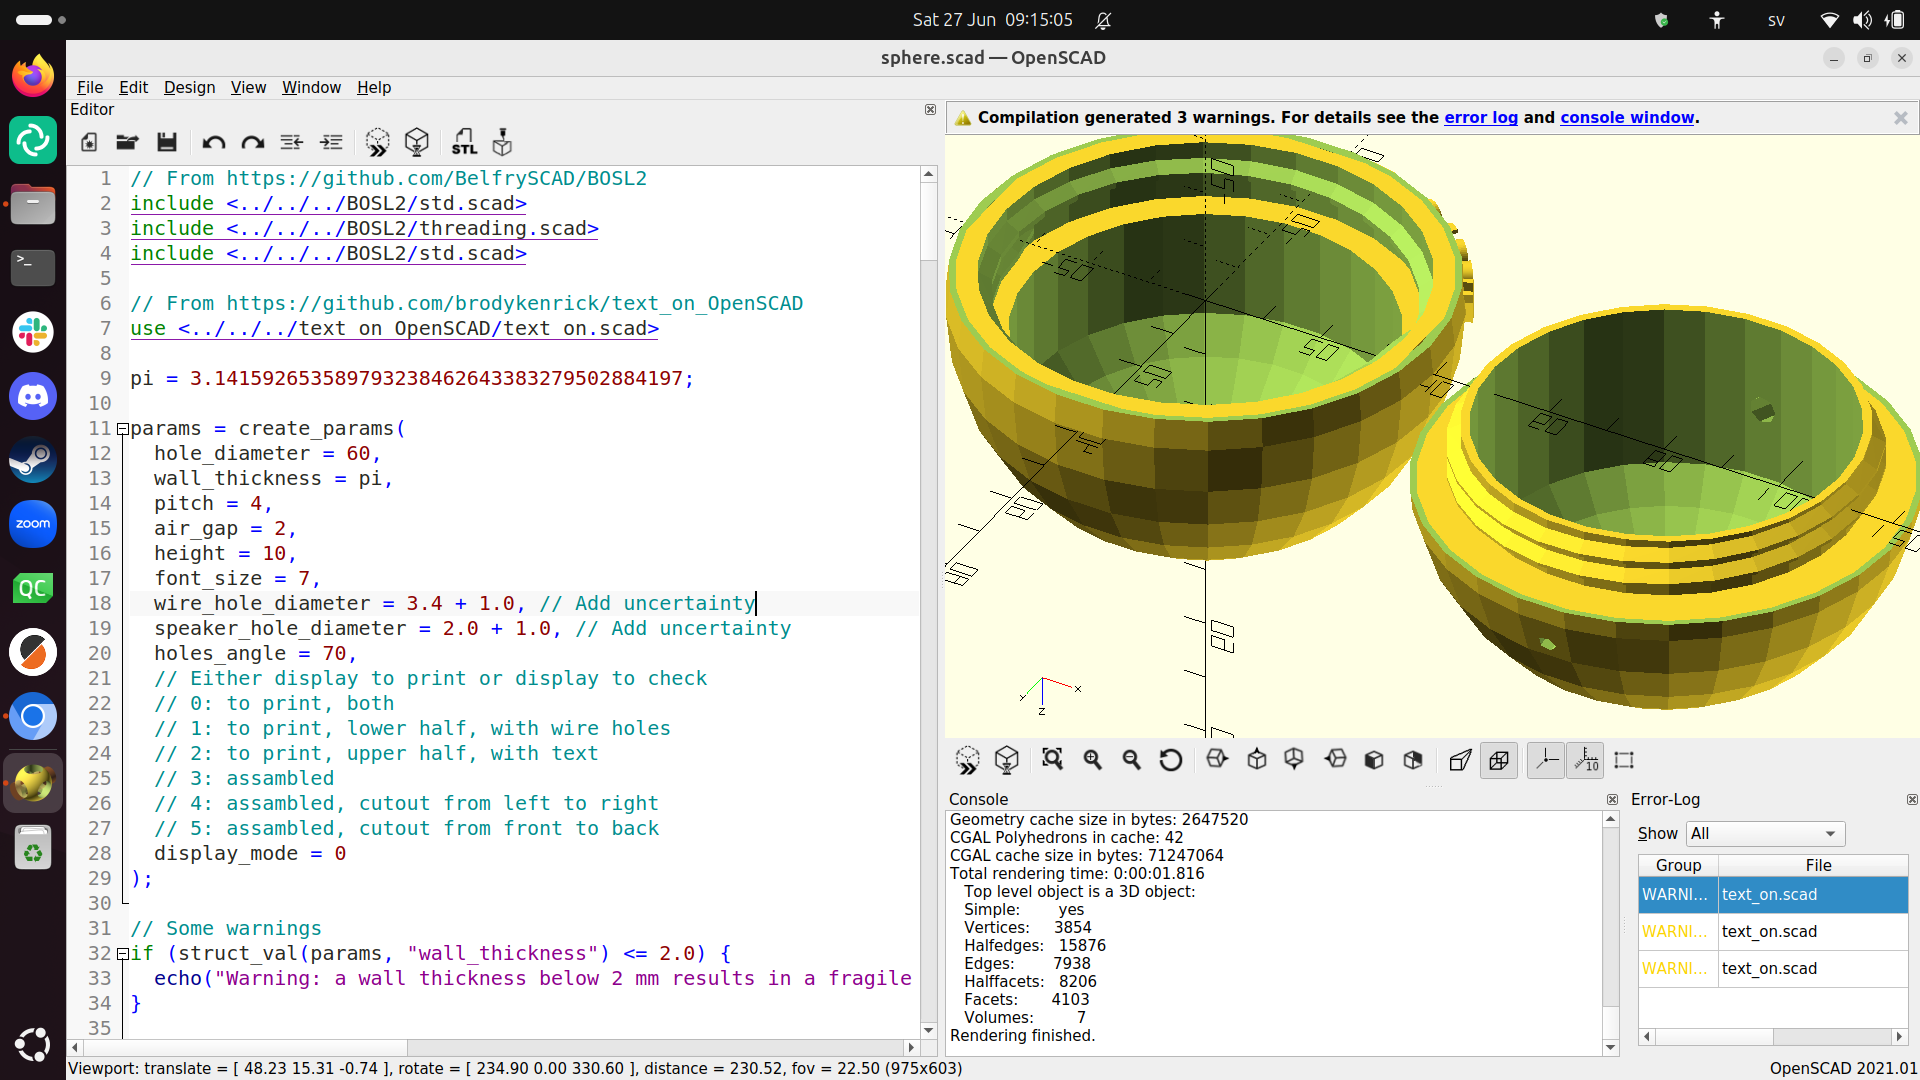
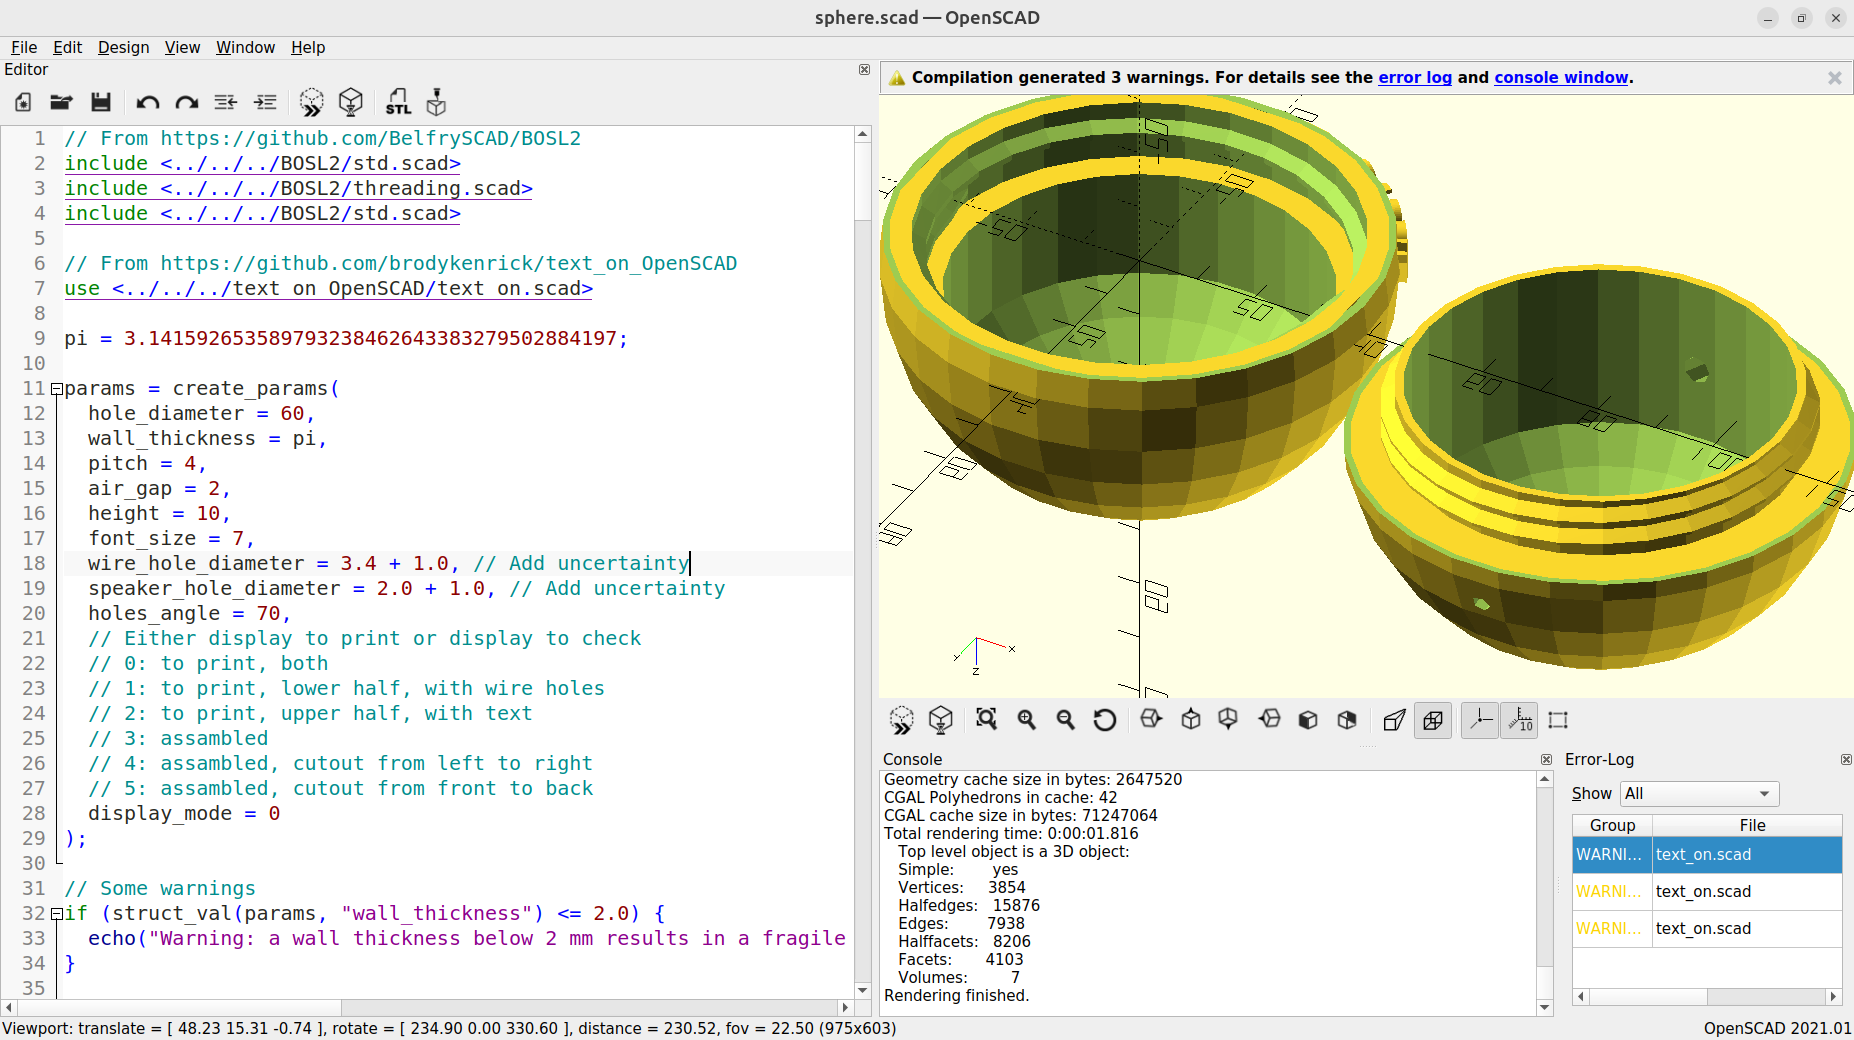
Add advanced hour

diff --git a/docs/kurserna/README.md b/docs/kurserna/README.md
@@ -28,14 +28,15 @@
 
     Här är ett översikt av när vilken kurs är:
 
-    Course     |9:00-10:00                               |10:15-11:00                                               |11:15-12:00                                               |12:15-13:00                                     |13:15-14:00                                     |14:15-15:00
-    -----------|-----------------------------------------|----------------------------------------------------------|----------------------------------------------------------|------------------------------------------------|------------------------------------------------|-------------------------------------------
-    Matlagning |![Cooking logo](cooking_logo_28_x_32.png)|.                                                         |.                                                         |.                                               |.                                               |.
-    Arduino    |.                                        |![Arduino logo](arduino_community_logo_65x32.png)         |![Arduino logo](arduino_community_logo_65x32.png)         |.                                               |.                                               |![Arduino logo](arduino_community_logo_65x32.png) (för vuxna)
-    Blender    |.                                        |![Blender logo](blender_community_badge_white_39_x_32.png)|![Blender logo](blender_community_badge_white_39_x_32.png)|.                                               |.                                               |![Blender logo](blender_community_badge_white_39_x_32.png) (för vuxna)
-    Processing |.                                        |.                                                         |.                                                         |![Processing logo](processing4_logo_36_x_32.png)|![Processing logo](processing4_logo_36_x_32.png)|![Processing logo](processing4_logo_36_x_32.png) (för vuxna och advancerade programmerare)
-    OpenSCAD   |.                                        |.                                                         |.                                                         |.                                               |![OpenSCAD logo](openscad_logo_32_x_32.png)     |![OpenSCAD logo](openscad_logo_32_x_32.png)
-    Vuxen timme|.                                        |.                                                         |.                                                         |.                                               |.                                               |![Adult hour](koerkort_49_x_32.png)
+    Course         |9:00-10:00                               |10:15-11:00                                               |11:15-12:00                                               |12:15-13:00                                     |13:15-14:00                                     |14:15-15:00
+    ---------------|-----------------------------------------|----------------------------------------------------------|----------------------------------------------------------|------------------------------------------------|------------------------------------------------|-------------------------------------------
+    Matlagning     |![Cooking logo](cooking_logo_28_x_32.png)|.                                                         |.                                                         |.                                               |.                                               |.
+    Arduino        |.                                        |![Arduino logo](arduino_community_logo_65x32.png)         |![Arduino logo](arduino_community_logo_65x32.png)         |.                                               |.                                               |![Arduino logo](arduino_community_logo_65x32.png) (för vuxna)
+    Blender        |.                                        |![Blender logo](blender_community_badge_white_39_x_32.png)|![Blender logo](blender_community_badge_white_39_x_32.png)|.                                               |.                                               |![Blender logo](blender_community_badge_white_39_x_32.png) (för vuxna)
+    Processing     |.                                        |.                                                         |.                                                         |![Processing logo](processing4_logo_36_x_32.png)|![Processing logo](processing4_logo_36_x_32.png)|![Processing logo](processing4_logo_36_x_32.png) (för vuxna och advancerade programmerare)
+    OpenSCAD       |.                                        |.                                                         |.                                                         |.                                               |![OpenSCAD logo](openscad_logo_32_x_32.png)     |![OpenSCAD logo](openscad_logo_32_x_32.png)
+    Avancerad timme|.                                        |.                                                         |.                                                         |.                                               |.                                               |![Avancerad timme logo](avancerad_timme_logo.png)
+    Vuxen timme    |.                                        |.                                                         |.                                                         |.                                               |.                                               |![Vuxentimme logo](koerkort_49_x_32.png)
 
 === "🇬🇧"
 
@@ -65,11 +66,12 @@
 
     Here is an overview when which course takes place:
 
-    Course    |9:00-10:00                               |10:15-11:00                                               |11:15-12:00                                               |12:15-13:00                                     |13:15-14:00                                     |14:15-15:00
-    ----------|-----------------------------------------|----------------------------------------------------------|----------------------------------------------------------|------------------------------------------------|------------------------------------------------|-------------------------------------------
-    Cooking   |![Cooking logo](cooking_logo_28_x_32.png)|.                                                         |.                                                         |.                                               |.                                               |.
-    Arduino   |.                                        |![Arduino logo](arduino_community_logo_65x32.png)         |![Arduino logo](arduino_community_logo_65x32.png)         |.                                               |.                                               |![Arduino logo](arduino_community_logo_65x32.png) (for adults)
-    Blender   |.                                        |![Blender logo](blender_community_badge_white_39_x_32.png)|![Blender logo](blender_community_badge_white_39_x_32.png)|.                                               |.                                               |![Blender logo](blender_community_badge_white_39_x_32.png) (for adults)
-    Processing|.                                        |.                                                         |.                                                         |![Processing logo](processing4_logo_36_x_32.png)|![Processing logo](processing4_logo_36_x_32.png)|![Processing logo](processing4_logo_36_x_32.png) (for adults and advanced programmers)
-    OpenSCAD  |.                                        |.                                                         |.                                                         |.                                               |![OpenSCAD logo](openscad_logo_32_x_32.png)     |![OpenSCAD logo](openscad_logo_32_x_32.png)
-    Adult hour|.                                        |.                                                         |.                                                         |.                                               |.                                               |![Adult hour](koerkort_49_x_32.png)
+    Course       |9:00-10:00                               |10:15-11:00                                               |11:15-12:00                                               |12:15-13:00                                     |13:15-14:00                                     |14:15-15:00
+    -------------|-----------------------------------------|----------------------------------------------------------|----------------------------------------------------------|------------------------------------------------|------------------------------------------------|-------------------------------------------
+    Cooking      |![Cooking logo](cooking_logo_28_x_32.png)|.                                                         |.                                                         |.                                               |.                                               |.
+    Arduino      |.                                        |![Arduino logo](arduino_community_logo_65x32.png)         |![Arduino logo](arduino_community_logo_65x32.png)         |.                                               |.                                               |![Arduino logo](arduino_community_logo_65x32.png) (for adults)
+    Blender      |.                                        |![Blender logo](blender_community_badge_white_39_x_32.png)|![Blender logo](blender_community_badge_white_39_x_32.png)|.                                               |.                                               |![Blender logo](blender_community_badge_white_39_x_32.png) (for adults)
+    Processing   |.                                        |.                                                         |.                                                         |![Processing logo](processing4_logo_36_x_32.png)|![Processing logo](processing4_logo_36_x_32.png)|![Processing logo](processing4_logo_36_x_32.png) (for adults and advanced programmers)
+    OpenSCAD     |.                                        |.                                                         |.                                                         |.                                               |![OpenSCAD logo](openscad_logo_32_x_32.png)     |![OpenSCAD logo](openscad_logo_32_x_32.png)
+    Advanced hour|.                                        |.                                                         |.                                                         |.                                               |.                                               |![Avancerad timme logo](avancerad_timme_logo.png)
+    Adult hour   |.                                        |.                                                         |.                                                         |.                                               |.                                               |![Adult hour logo](koerkort_49_x_32.png)
